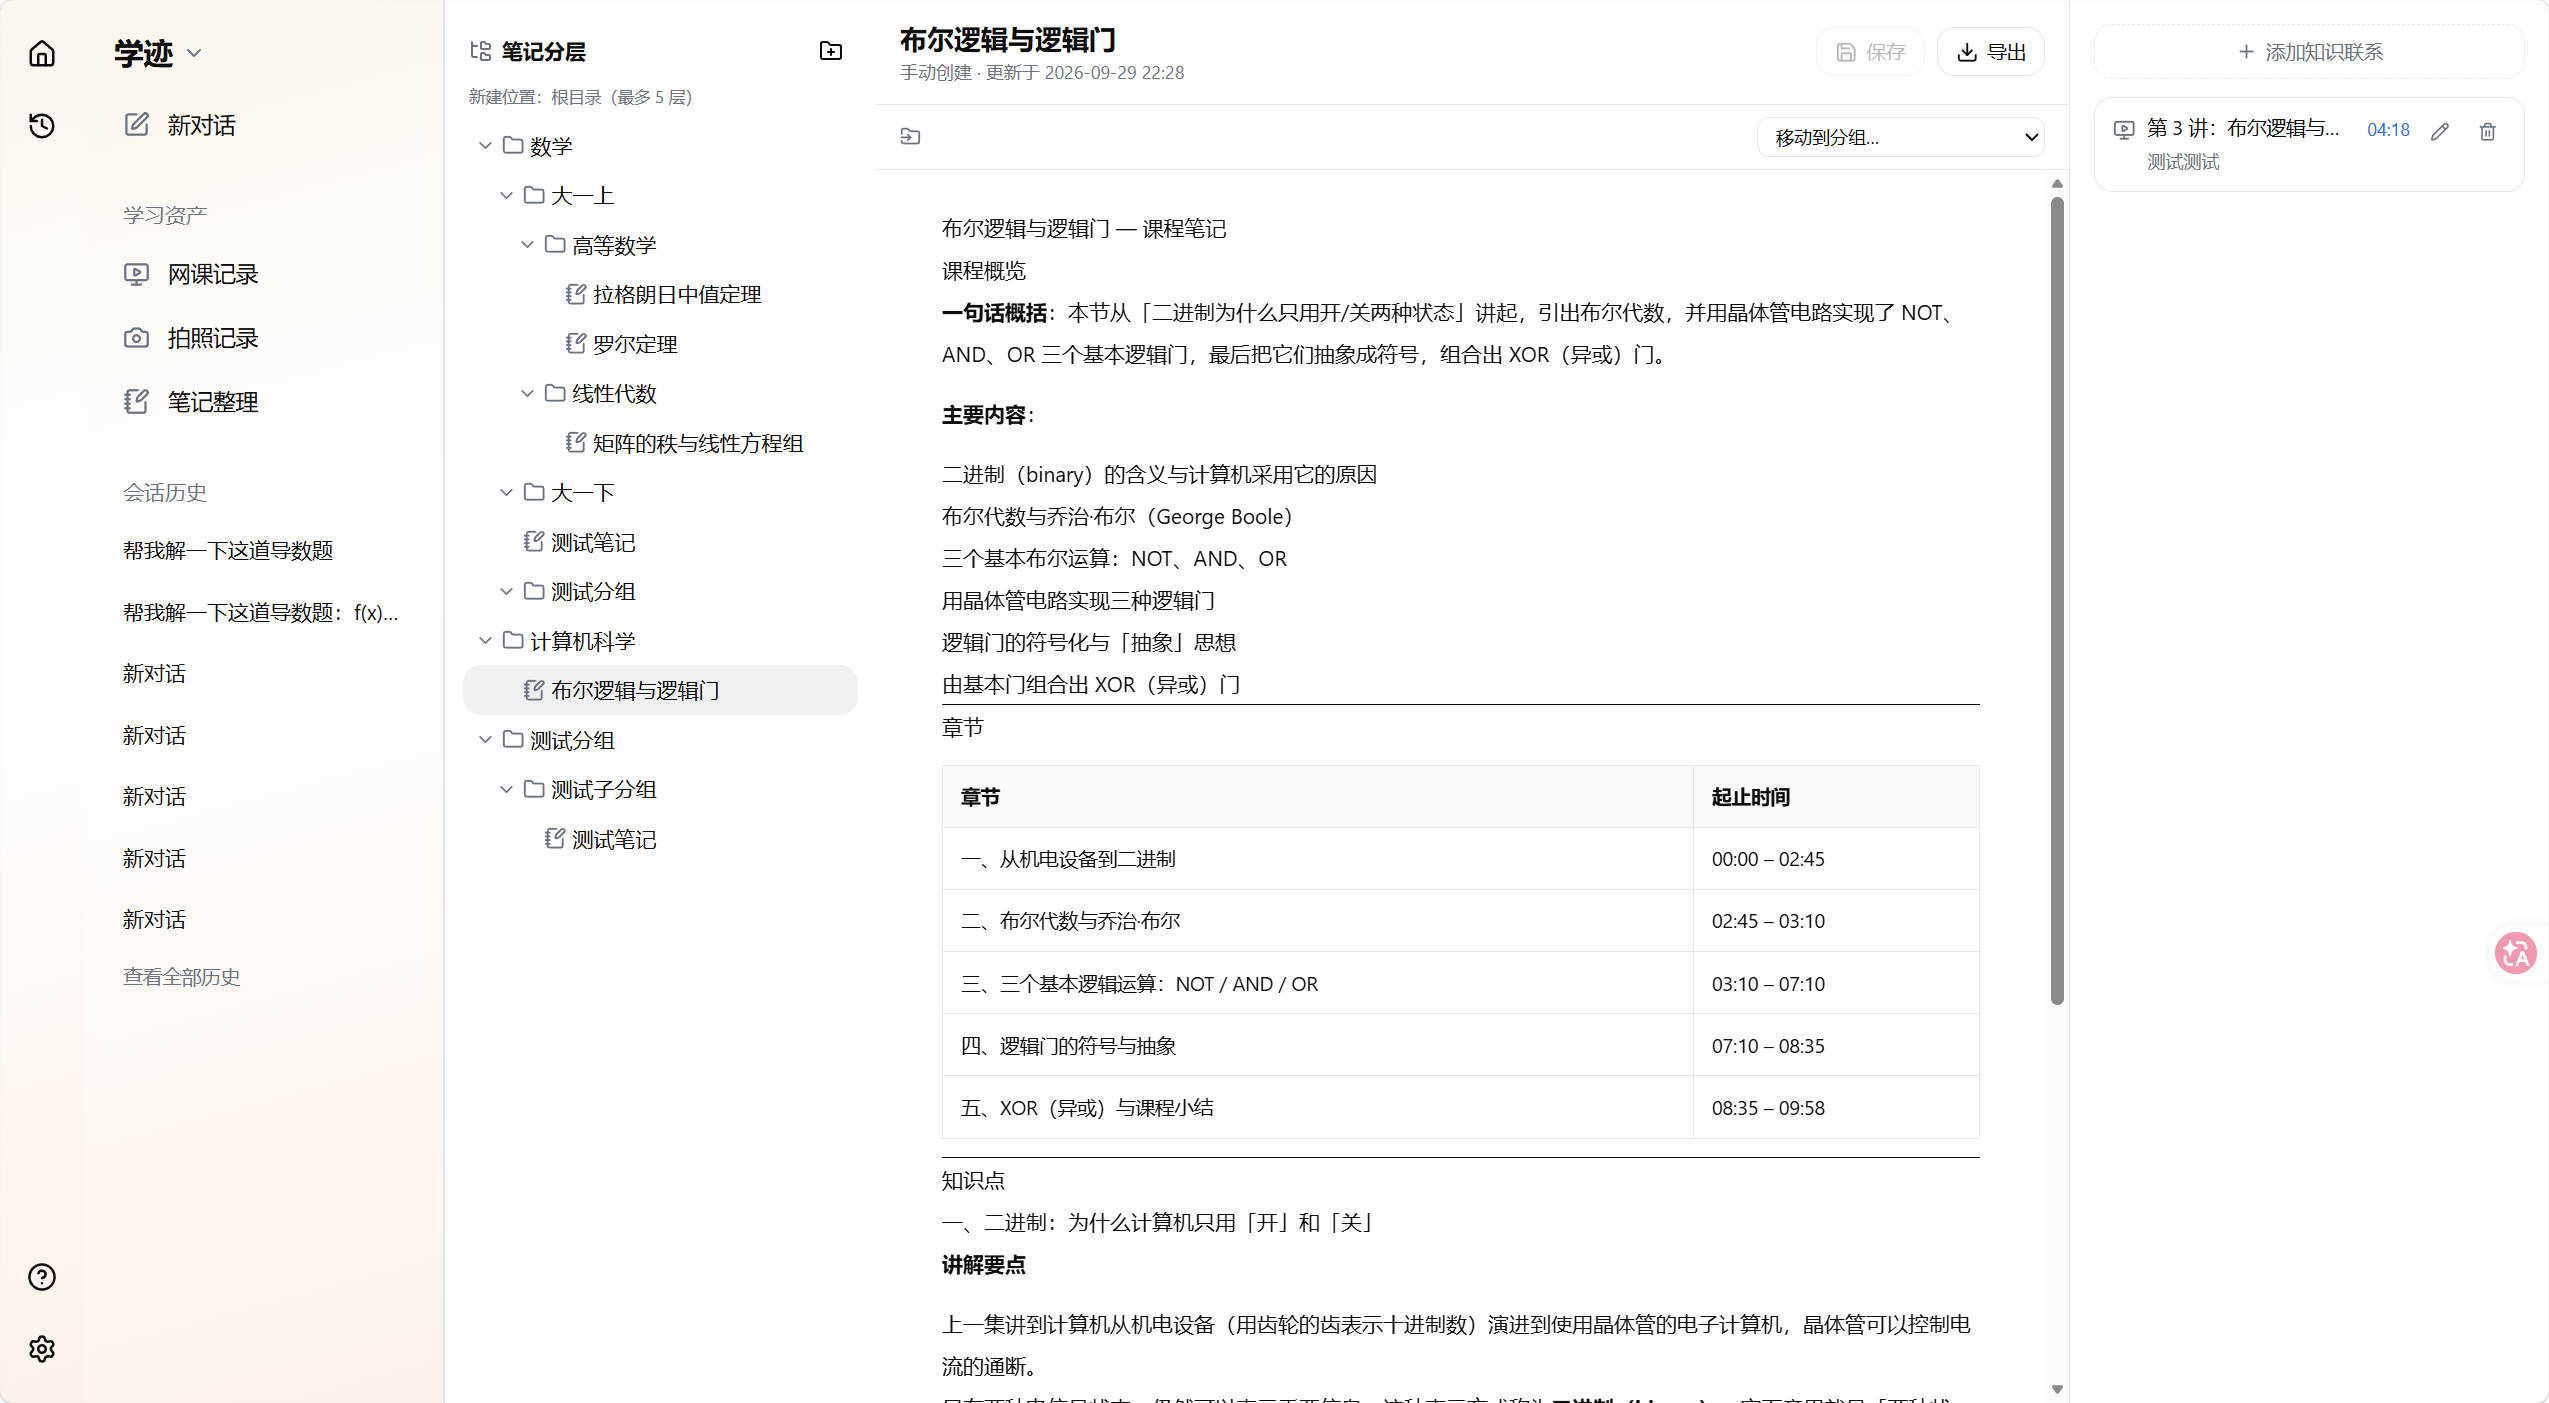
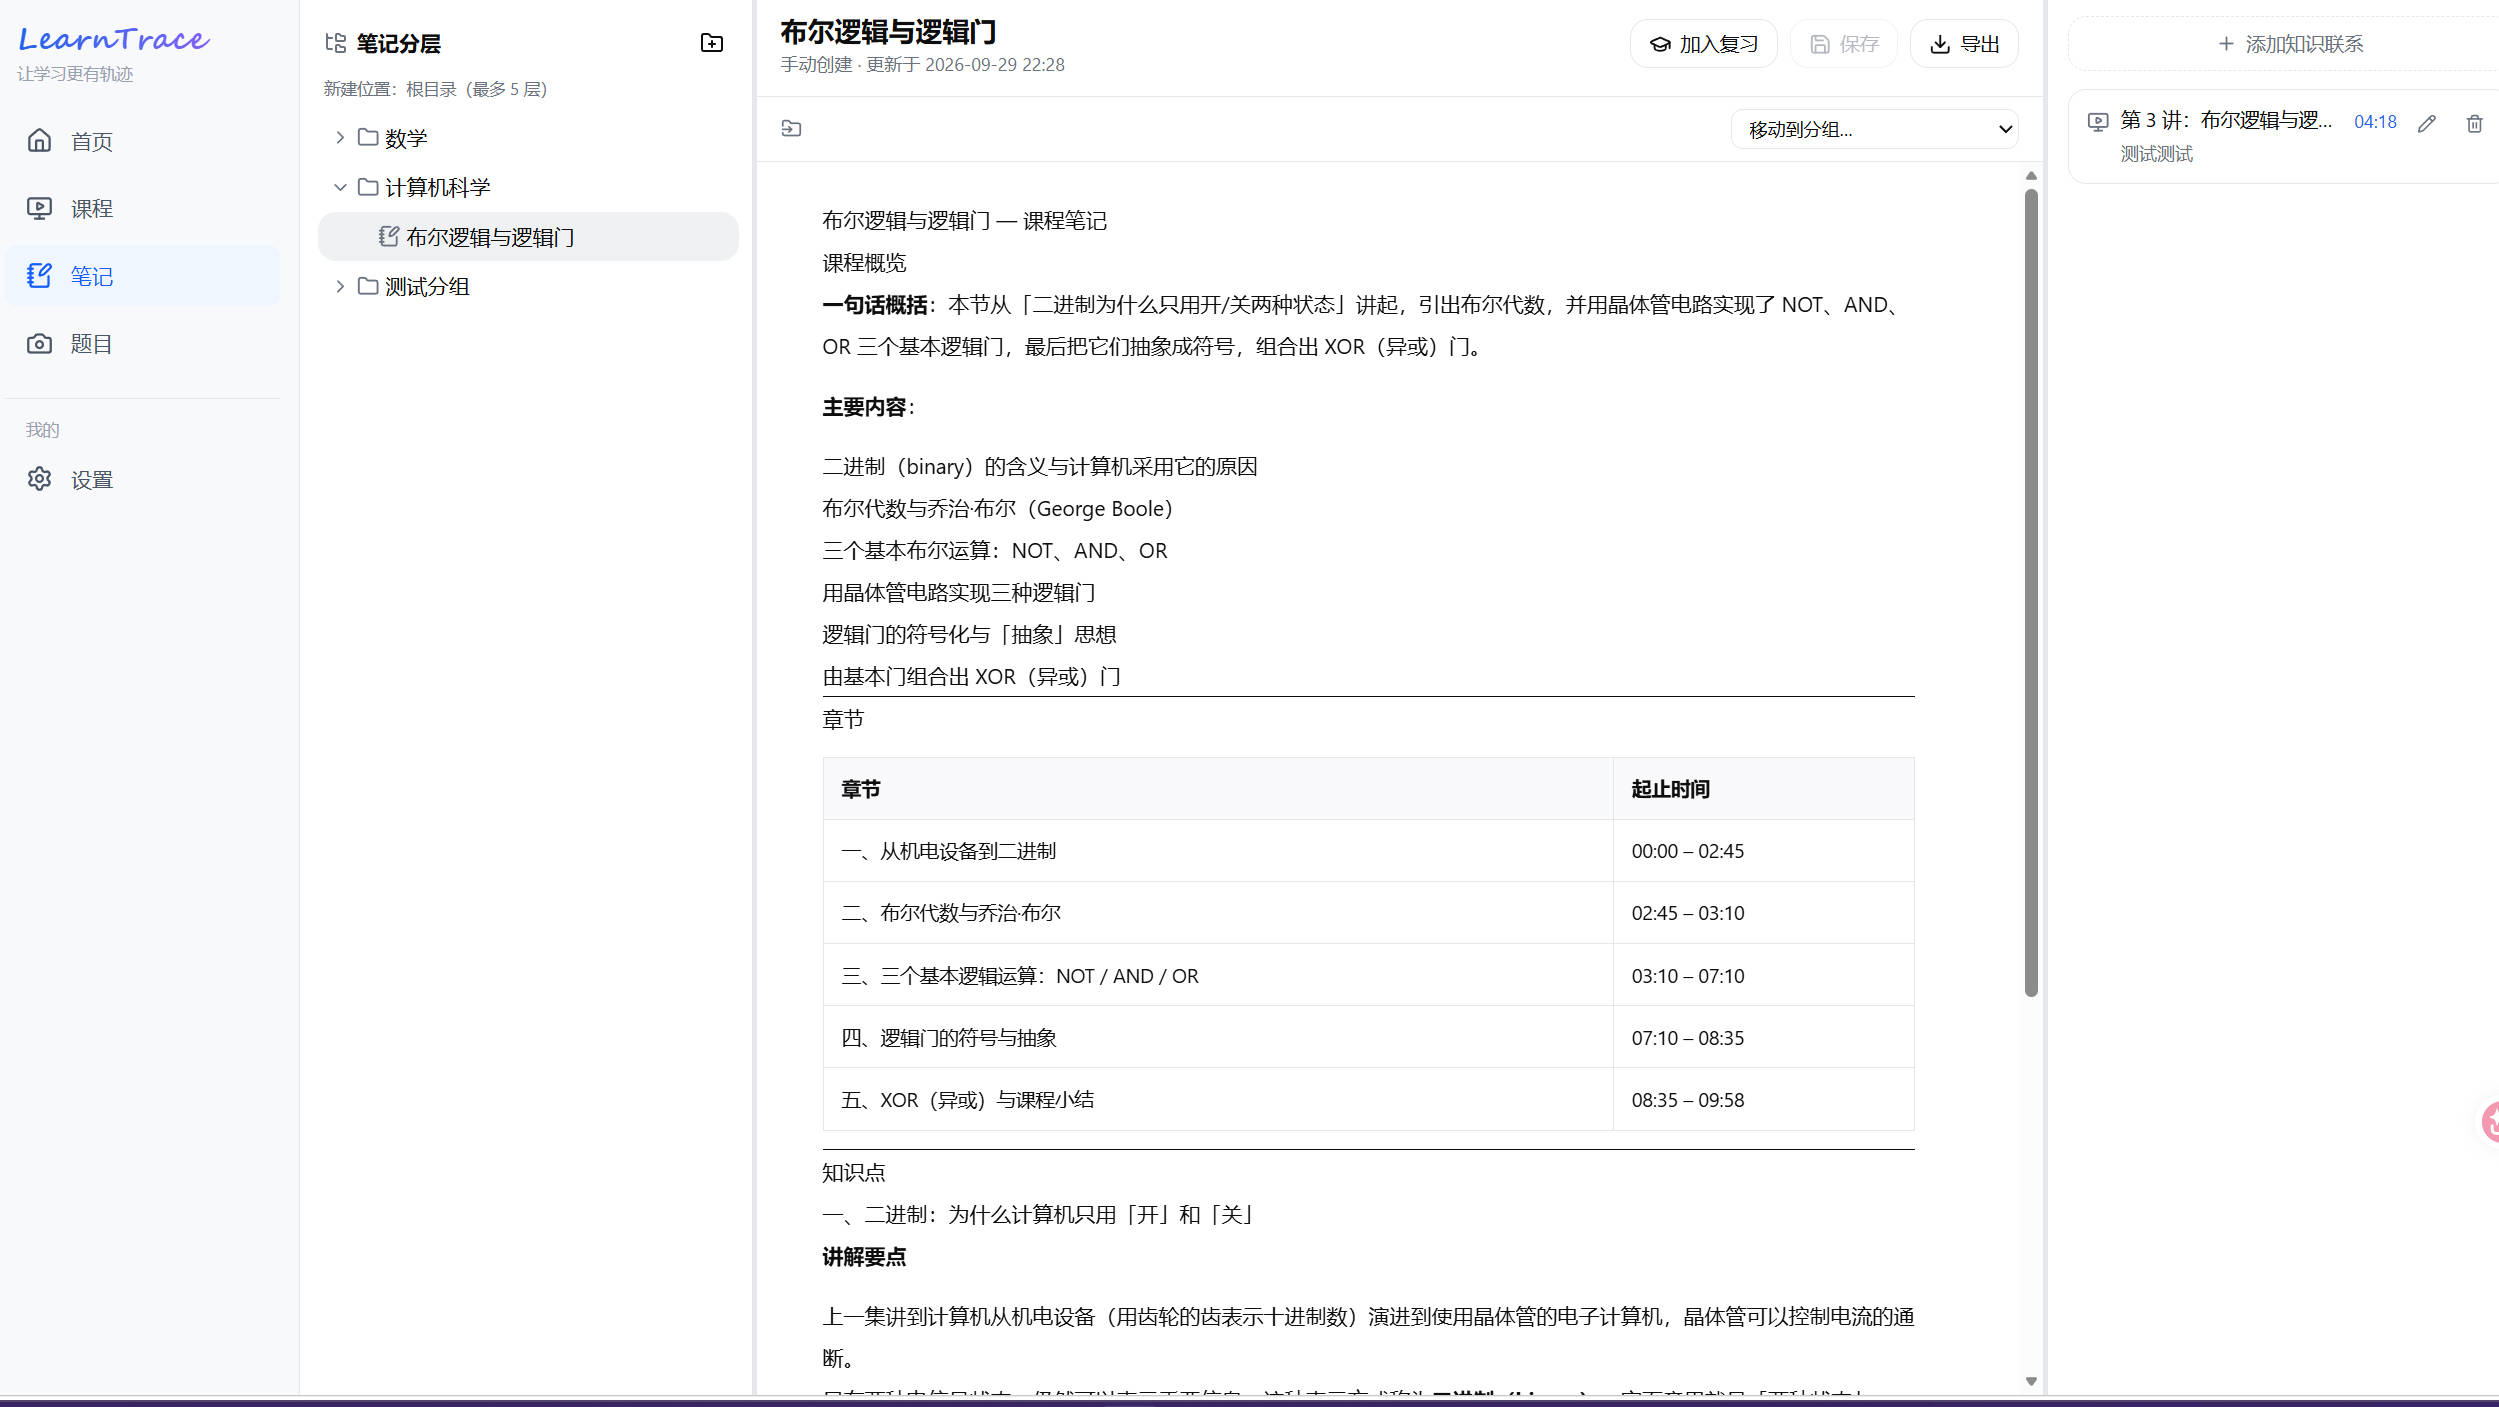
docs: README 界面预览更换为最新页面截图（首页/视频/笔记/题目）

diff --git a/README.md b/README.md
@@ -18,11 +18,11 @@ AI 个人学习工作台：学习资产（视频 / 题目 / 笔记）+ 知识点
 
 ## 界面预览
 
-| Agent 对话 | 笔记整理 |
+| 首页 | 视频页面 |
 | --- | --- |
-| ![Agent 对话](docs/images/demo-agent.jpg) | ![笔记整理](docs/images/demo-notes.jpg) |
-| **视频记录** | **视频详情 · AI 笔记** |
-| ![视频记录](docs/images/demo-courses.jpg) | ![视频详情](docs/images/demo-course-detail.jpg) |
+| ![首页](docs/images/demo-home.jpg) | ![视频页面](docs/images/demo-video.jpg) |
+| **笔记页面** | **题目页面** |
+| ![笔记页面](docs/images/demo-notes.jpg) | ![题目页面](docs/images/demo-question.jpg) |
 
 ## 技术栈
 
